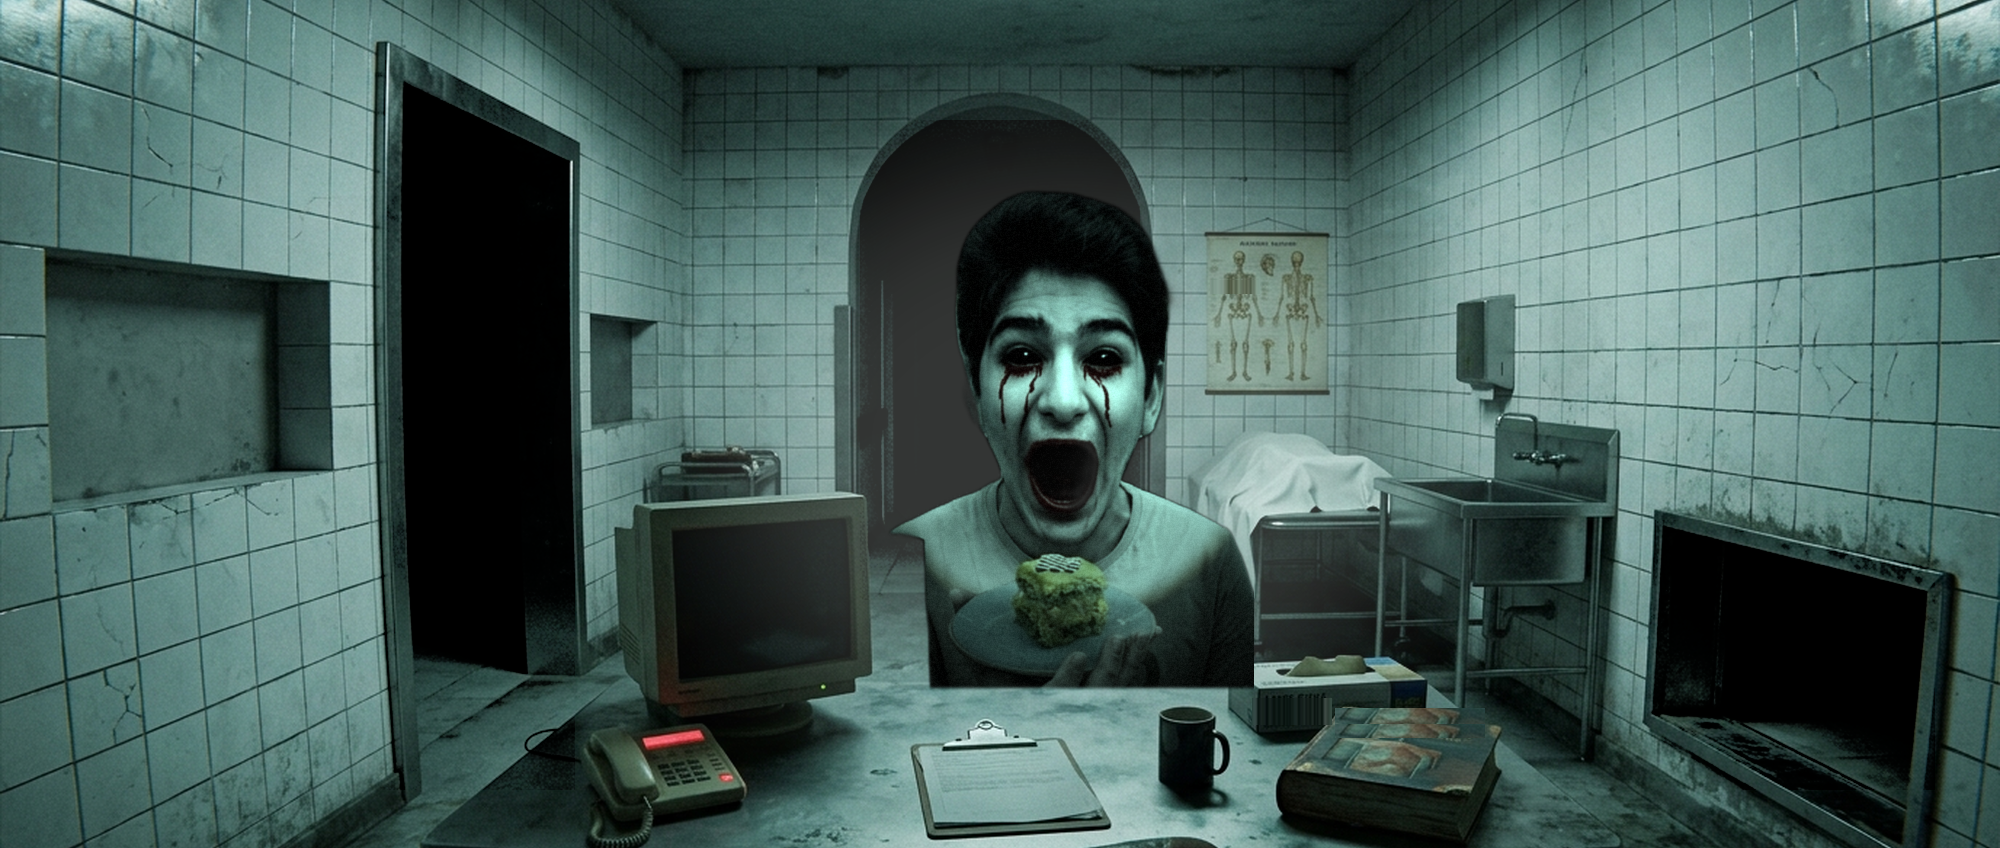
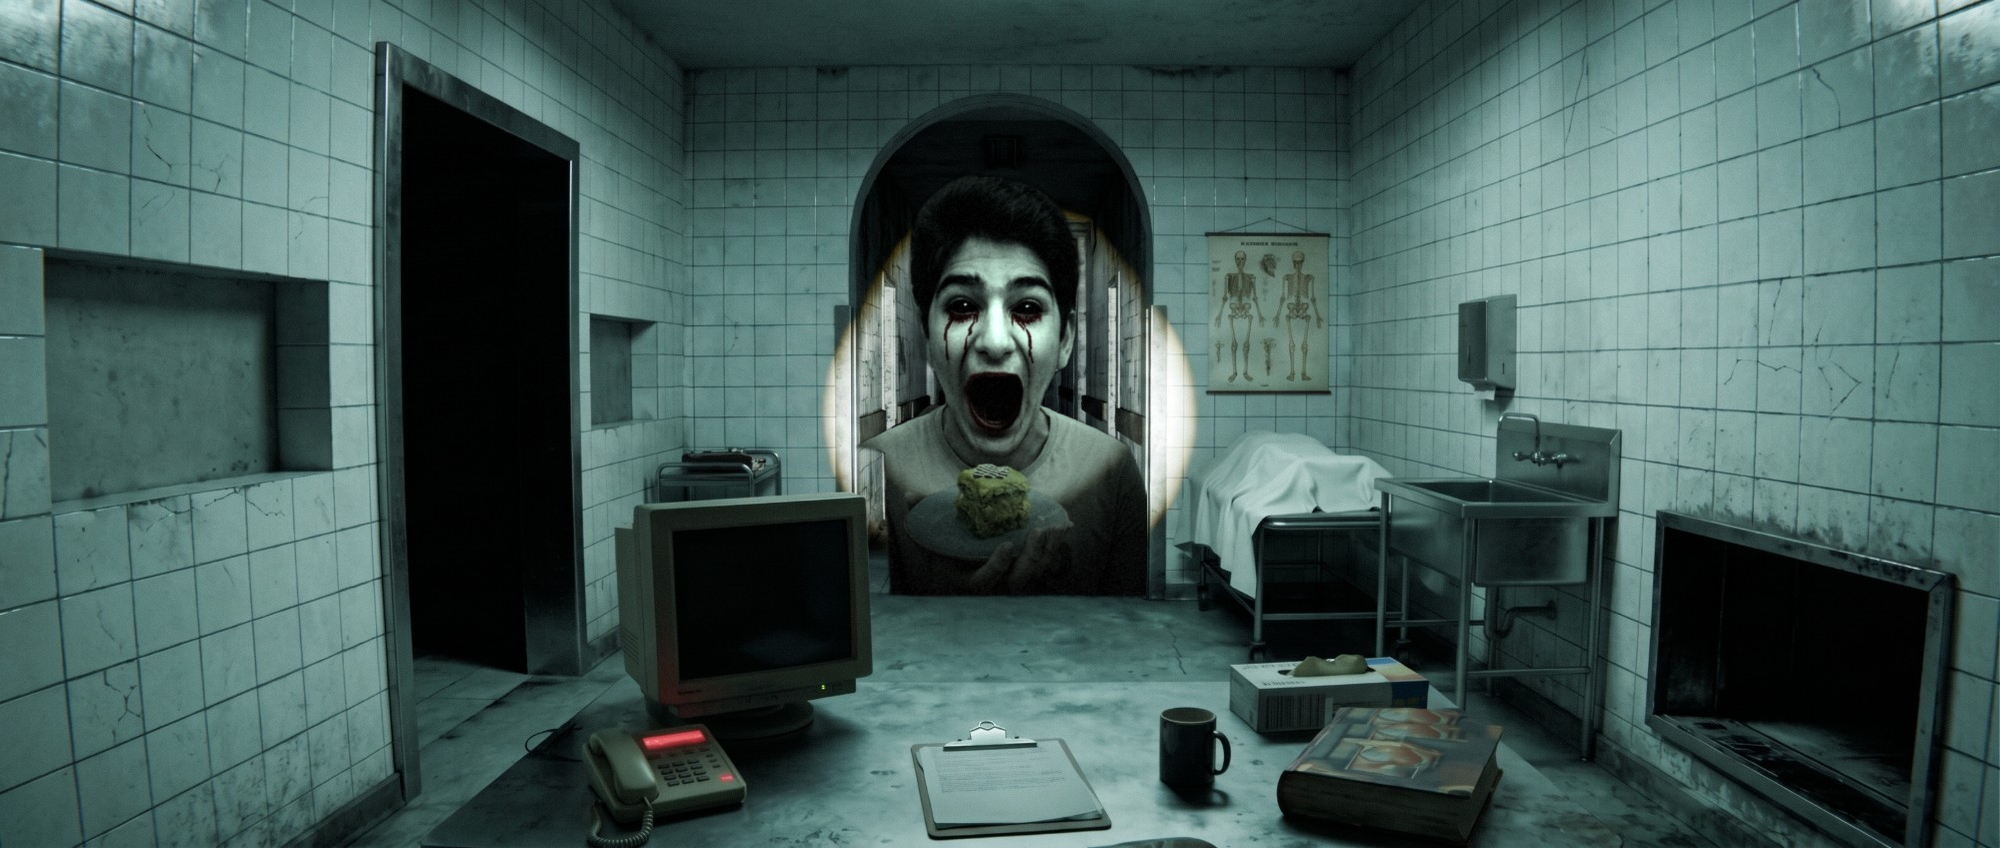
Yeni ana menü (morg etiketleri, kimlik fotoğrafı); örtü yukarıdan iniyor; Pasta 3 koridorun içinde; ışık tutulan yerde hareket olunca ışık bir süre bozuluyor

diff --git a/index.html b/index.html
@@ -169,9 +169,14 @@
   #edgeL,#edgeR{position:absolute; top:0; bottom:0; width:60px; pointer-events:none; opacity:0; transition:opacity .3s}
   #edgeL{left:0; background:linear-gradient(90deg,rgba(255,255,255,.05),transparent)} #edgeR{right:0; background:linear-gradient(-90deg,rgba(255,255,255,.05),transparent)}
   /* örtü: görüş kararır ve bulanıklaşır, kumaşın arkasından loş ışık titrer (görsel yok) */
-  #sheetLayer{position:absolute; inset:0; z-index:30; pointer-events:none; opacity:0; transition:opacity .35s ease, backdrop-filter .35s ease;
+  #sheetLayer{position:absolute; inset:-4% 0 0; z-index:30; pointer-events:none; opacity:0; transform:translateY(-105%) rotate(-1.5deg); transform-origin:50% 0;
+    transition:transform .42s cubic-bezier(.25,1.35,.45,1), opacity .15s linear, backdrop-filter .4s ease;
+    -webkit-mask-image:linear-gradient(to bottom,#000 88%,transparent); mask-image:linear-gradient(to bottom,#000 88%,transparent);
     background:radial-gradient(ellipse at 50% 45%, rgba(18,22,24,.72), rgba(0,0,0,.94) 75%); -webkit-backdrop-filter:blur(0px); backdrop-filter:blur(0px)}
-  #game.sheet #sheetLayer{opacity:1; -webkit-backdrop-filter:blur(14px); backdrop-filter:blur(14px)}
+  #game.sheet #sheetLayer{opacity:1; transform:none; animation:sheetSway 5s ease-in-out .45s infinite; -webkit-backdrop-filter:blur(14px); backdrop-filter:blur(14px)}
+  @keyframes sheetSway{0%,100%{transform:none} 50%{transform:translateY(5px) rotate(.4deg)}}
+  #game.lout #corr, #game.lout .vimg.on{animation:lflk .35s steps(2)}
+  @keyframes lflk{50%{opacity:.15}}
   #sheetLayer .flk1, #sheetLayer .flk2{position:absolute; border-radius:50%; filter:blur(40px)}
   #sheetLayer .flk1{left:52%; top:6%; width:520px; height:300px; background:rgba(190,215,220,.16); animation:sflk 4.3s steps(1) infinite}
   #sheetLayer .flk2{left:8%; top:40%; width:360px; height:240px; background:rgba(160,190,200,.08); animation:sflk 2.9s steps(1) infinite reverse}
@@ -495,6 +500,37 @@
   #map .plan path{fill:none; stroke:#8a8a8a; stroke-width:7; stroke-linejoin:miter}
   #map button, #map .you{width:76px; height:28px; font-size:13px; display:flex; align-items:center; justify-content:center}
   #map .you{background:#d4d0c8; border:1px dashed #000; box-sizing:border-box}
+
+  /* ---------- ana menü v2 ---------- */
+  #title{background:#020405}
+  #title .tbg{position:absolute; inset:-40px; background:url(img/office.png) 40% 50%/cover; filter:blur(5px) brightness(.32) saturate(.6) hue-rotate(10deg); animation:tpan 40s ease-in-out infinite alternate}
+  @keyframes tpan{from{transform:scale(1.08) translateX(-30px)} to{transform:scale(1.15) translateX(30px)}}
+  #title .tflk{position:absolute; inset:0; background:linear-gradient(90deg, rgba(2,4,5,.95) 30%, rgba(2,4,5,.4) 60%, rgba(2,4,5,.85)); animation:tflick 7s steps(1) infinite}
+  @keyframes tflick{0%,93%,100%{opacity:1} 94%{opacity:.82} 95%{opacity:1} 97%{opacity:.7}}
+  #title .kicker{position:absolute; left:84px; top:92px; font-family:'VT323',monospace; font-size:22px; letter-spacing:3px; color:#6f8a86}
+  #title h1{left:80px; top:118px; line-height:1}
+  #title h1 .a{font-family:'Special Elite',monospace; font-size:44px; color:#c9d3cf; letter-spacing:2px}
+  #title h1 .b{font-family:'Creepster',cursive; font-size:176px; color:#a3121c; letter-spacing:10px; text-shadow:0 0 30px rgba(160,10,20,.45), 3px 0 rgba(0,255,220,.12), -3px 0 rgba(255,0,60,.2); animation:flick 4s infinite, mglitch 9s steps(1) infinite}
+  @keyframes mglitch{0%,96%,100%{transform:none; clip-path:none} 97%{transform:translateX(6px); clip-path:inset(20% 0 45% 0)} 98%{transform:translateX(-8px); clip-path:inset(55% 0 10% 0)}}
+  #title .sub{display:none}
+  #title .fade{display:none}
+  #menu{left:84px; top:372px; display:flex; flex-direction:column; gap:8px}
+  #menu button{position:relative; display:flex; align-items:center; gap:14px; width:330px; padding:7px 18px 7px 46px; text-align:left; white-space:nowrap; font-family:'Special Elite',monospace; font-size:23px; letter-spacing:2px;
+    color:#2a2620; background:linear-gradient(#e7dfc6,#d3c9ab); border:0; border-radius:3px 14px 14px 3px; clip-path:polygon(0 0,100% 12%,100% 88%,0 100%);
+    box-shadow:inset 0 0 18px rgba(90,70,30,.35); transform-origin:12px 50%; transition:transform .25s cubic-bezier(.3,1.6,.5,1), filter .2s; filter:brightness(.72) sepia(.2)}
+  #menu button::before{content:''; position:absolute; left:14px; top:50%; width:14px; height:14px; margin-top:-7px; border-radius:50%; background:#0b0d0e; box-shadow:0 0 0 3px #a99e80}
+  #menu button::after{content:''; position:absolute; left:-70px; top:50%; width:70px; height:2px; background:linear-gradient(90deg,transparent,#8f8a7c)}
+  #menu button i{font-style:normal; font-family:'VT323',monospace; font-size:22px; color:#8b1018; min-width:28px}
+  #menu button:hover, #menu button:focus{transform:rotate(-3deg) translateX(10px); filter:none; outline:none; color:#000}
+  #menu button:hover::before{content:''}
+  #menu button[hidden]{display:none}
+  #faceWrap{right:110px; top:90px; width:380px; height:520px; padding:16px 16px 60px; background:#d8d2c0; box-shadow:0 30px 60px rgba(0,0,0,.8); transform:rotate(3deg); animation:none}
+  #faceWrap img{position:absolute; left:16px; top:16px; width:348px; height:444px; object-fit:cover; filter:grayscale(.7) contrast(1.15) brightness(.85)}
+  #faceWrap .face{opacity:1}
+  #faceWrap .cap{position:absolute; left:0; right:0; bottom:16px; text-align:center; font-family:'Special Elite',monospace; font-size:22px; color:#2a2620; letter-spacing:2px}
+  #faceWrap .clip{position:absolute; left:50%; top:-18px; width:70px; height:34px; margin-left:-35px; background:linear-gradient(#9aa0a4,#5d6367); border-radius:4px 4px 10px 10px; box-shadow:0 3px 6px rgba(0,0,0,.6); z-index:2}
+  #title .foot{left:84px; right:auto; bottom:12px; font-family:'VT323',monospace; font-size:22px; color:#4f615e}
+  #title .redact{background:#1b2224; color:#1b2224}
   /* SCARE */
   #scare{background:#000}
   #scareImg{position:absolute; inset:0; width:100%; height:100%; object-fit:cover; animation:lunge .5s cubic-bezier(.15,.9,.3,1) forwards, shake .06s infinite}
@@ -515,18 +551,19 @@
   <section id="splash" class="screen on"><div class="center"><div class="s1">MIRIK'LA 5 GECE: MORG</div><div class="s2" id="splashTxt">YÜKLENİYOR... %0</div><div class="s3">🎧 kulaklıkla, ışıklar kapalı oyna</div></div></section>
 
   <section id="title" class="screen">
-    <div id="faceWrap"><img class="face" src="img/menu_face.png" alt=""><img class="scary" src="img/menu_face_scary.png" alt=""></div>
-    <div class="fade"></div><div class="vignette"></div><div class="scan"></div>
-    <h1><span class="a">MIRIK'LA 5 GECE</span><span class="b">MORG</span></h1>
-    <div class="sub">Tıp fakültesi, morg katı. Beş gece nöbet.<br>5 numaralı çekmeceyi soğuk tut. Seslere güvenme.</div>
+    <div class="tbg"></div><div class="tflk"></div>
+    <div id="faceWrap"><div class="clip"></div><img class="face" src="img/menu_face.png" alt=""><img class="scary" src="img/menu_face_scary.png" alt=""><div class="cap">DENEK 5 · 98/0456</div></div>
+    <div class="vignette"></div><div class="scan"></div>
+    <div class="kicker">PROJE 4-5-6 &nbsp;·&nbsp; ANATOMİ B-1 KATI &nbsp;·&nbsp; GECE NÖBETİ</div>
+    <h1><span class="a">Mırık'la 5 Gece</span><span class="b">MORG</span></h1>
     <div id="menu">
-      <button id="bNew">YENİ OYUN</button>
-      <button id="bCont">DEVAM ET</button>
-      <button id="bSix" hidden>6. GECE</button>
-      <button id="bCustom" hidden>CUSTOM NIGHT</button>
-      <button id="bArchive">ARŞİV</button>
+      <button id="bNew"><i>01</i>YENİ OYUN</button>
+      <button id="bCont"><i>02</i>DEVAM ET</button>
+      <button id="bSix" hidden><i>06</i>6. GECE</button>
+      <button id="bCustom" hidden><i>07</i>CUSTOM NIGHT</button>
+      <button id="bArchive"><i>A</i>ARŞİV</button>
     </div>
-    <div class="foot">v2.0 · Proje 4-5-6</div>
+    <div class="foot">v2.0 &nbsp;·&nbsp; nöbetçi: <span class="redact">███████</span></div>
   </section>
 
   <section id="doc" class="screen"><div id="paperDoc"></div><div class="hint">[ devam etmek için tıkla ]</div></section>
@@ -662,11 +699,11 @@
   <section id="custom" class="screen"><h2 class="pageT">CUSTOM NIGHT</h2><div id="ccards"></div><div id="cpresets"><button data-p="easy">KOLAY 5</button><button data-p="n6">GECE 6</button><button data-p="max">20/20</button></div><button class="back" id="bCusBack">← GERİ</button><button id="cStart">BAŞLAT ▶</button></section>
 </div>
 
-<script src="audio.js?v=20261107u"></script>
-<script src="core.js?v=20261107u"></script>
-<script src="nights.js?v=20261107u"></script>
-<script src="save.js?v=20261107u"></script>
+<script src="audio.js?v=20261107w"></script>
+<script src="core.js?v=20261107w"></script>
+<script src="nights.js?v=20261107w"></script>
+<script src="save.js?v=20261107w"></script>
 <script src="lore.js?v=2"></script>
-<script src="game.js?v=20261107u"></script>
+<script src="game.js?v=20261107w"></script>
 </body>
 </html>

diff --git a/core.js b/core.js
@@ -12,6 +12,7 @@
     POWER_DEV: { doorL: .24, lightL: .15, flash: .18, ventLight: .15, monitor: .09, cooling: .21 },
     POWER_NIGHT_MUL: 0.02,
     POWEROUT_DEATH: [10, 20],
+    LIGHT_OUT: 2.2,        // ışık tutulan yerde hareket olunca o ışık bu kadar saniye yanmaz
   };
 
   const CAMS = ['corr', 'autopsy', 'cold', 'ventA', 'ventB', 'archive', 'lift'];
@@ -36,6 +37,7 @@
       dev: { doorL: false, lightL: false, flash: false, ventLight: false, monitor: false, cooling: false, sheet: false, cam: null, reboot: null, camBlind: false },
       dark: false, darkT: 0,
       pending: { sheet: false, door: false },
+      lightOut: { flash: 0, lightL: 0, ventLight: 0 },
       _ev: null,
     };
     for (const k of Object.keys(INIT)) G[k] = INIT[k](G, opts);
@@ -69,14 +71,21 @@
     const free = !d.sheet;
     d.monitor = free && !!inp.monitor;
     const hands = free && !d.monitor; // monitöre bakarken ışık/fener kullanılamaz
-    d.lightL = hands && !!inp.lightL;
-    d.flash = hands && !!inp.flash;
-    d.ventLight = hands && !!inp.ventLight;
+    const lo = G.lightOut;
+    d.lightL = hands && !!inp.lightL && lo.lightL <= 0;
+    d.flash = hands && !!inp.flash && lo.flash <= 0;
+    d.ventLight = hands && !!inp.ventLight && lo.ventLight <= 0;
     d.cooling = d.monitor && !!inp.cooling;
     d.cam = d.monitor && CAMS.includes(inp.cam) ? inp.cam : null;
     d.reboot = d.monitor && CAMS.includes(inp.reboot) ? inp.reboot : null;
   }
 
+  // FNaF tarzı: ışık tutulan yerde biri hareket ederse o ışık bir süre bozulur
+  function knockOut(G, light) {
+    if (!G.dev[light]) return;
+    G.lightOut[light] = PARAMS.LIGHT_OUT; G.dev[light] = false;
+    emit(G, { type: 'lightout', light });
+  }
   function die(G, who) {
     if (G.over) return;
     G.over = true; G.result = 'death'; G.killer = who;
@@ -89,6 +98,7 @@
   }
 
   function sub(G, dt, inp) {
+    for (const k in G.lightOut) if (G.lightOut[k] > 0) G.lightOut[k] -= dt;
     applyInput(G, inp);
     G.extraDrain = 0;
     for (const f of TICKS) { if (G.over) return; f(G, dt, inp); }
@@ -143,6 +153,7 @@
     if (!roll(G, G.lv.pasta)) return;
     s.stage++;
     if (s.stage === 3) { s.window = PARAMS.PASTA_WINDOW; s.flashT = 0; }
+    knockOut(G, 'flash');
     emit(G, { type: 'move', who: 'pasta', to: PASTA_ROUTE[s.stage], stage: s.stage });
     emit(G, { type: 'sound', id: 'step', from: 'corr' });
   });
@@ -173,7 +184,7 @@
     s.tick = 0;
     if (!roll(G, G.lv.avukat)) return;
     if (s.pos === 'archive') { s.pos = 'lift'; emit(G, { type: 'move', who: 'avukat', to: 'lift' }); }
-    else { s.pos = 'door'; s.at = true; s.t = 0; emit(G, { type: 'move', who: 'avukat', to: 'door' }); emit(G, { type: 'sound', id: 'step', from: 'door' }); }
+    else { s.pos = 'door'; s.at = true; s.t = 0; knockOut(G, 'lightL'); emit(G, { type: 'move', who: 'avukat', to: 'door' }); emit(G, { type: 'sound', id: 'step', from: 'door' }); }
   });
 
   // ---------- Sultan Mırık Han (koridor, motor: her şeyi kapat) ----------
@@ -225,6 +236,7 @@
     if (!roll(G, G.lv.sahil)) return;
     s.stage++;
     if (s.stage === 3) { s.t = PARAMS.SAHIL_ATTACK; s.hide = 0; }
+    knockOut(G, 'ventLight');
     emit(G, { type: 'move', who: 'sahil', to: SAHIL_ROUTE[s.stage], stage: s.stage });
     emit(G, { type: 'sound', id: 'drag', from: 'vent' });
   });
@@ -352,5 +364,5 @@
 
   function shownTemp(G) { return G.muh.cam === 'cold' ? G.muh.frozenTemp : G.denek5.temp; }
 
-  return { PARAMS, CAMS, CHARS, createGame, step, usage, shownTemp, _internal: { INIT, TICKS, roll, emit, die, mul, hack, startFake } };
+  return { PARAMS, CAMS, CHARS, createGame, step, usage, shownTemp, _internal: { INIT, TICKS, roll, emit, die, mul, hack, startFake, knockOut } };
 });

diff --git a/tests/corridor_door.test.js b/tests/corridor_door.test.js
@@ -74,3 +74,21 @@ test('Pasta at level 20 advances and reports moves', () => {
   assert.ok(G.pasta.stage >= 2);
   assert.ok(evs.some(e => e.type === 'move' && e.who === 'pasta'));
 });
+
+test('movement under the flashlight knocks it out for a while (FNaF style)', () => {
+  const G = game(1, { pasta: 20 });
+  run(G, Core.PARAMS.PASTA_TICK + 0.2, { flash: true });           // Pasta ışık altında ilerler
+  assert.ok(G.lightOut.flash > 0, 'flash should be out');
+  run(G, 0.2, { flash: true });
+  assert.strictEqual(G.dev.flash, false);
+  run(G, Core.PARAMS.LIGHT_OUT + 0.1, {});
+  run(G, 0.1, { flash: true });
+  assert.strictEqual(G.dev.flash, true);
+});
+
+test('Avukat arriving under the door light knocks the door light out', () => {
+  const G = game(1, { avukat: 20 }); G.avukat.pos = 'lift';
+  run(G, Core.PARAMS.AVUKAT_TICK + 0.2, { lightL: true });
+  assert.ok(G.lightOut.lightL > 0);
+  assert.strictEqual(G.dev.lightL, false);
+});

diff --git a/game.js b/game.js
@@ -44,7 +44,7 @@ let P = Save.load();
 function persist(r) { P = Save.unlock(P, r); Save.save(P); refreshMenu(); }
 function refreshMenu() {
   const n = P.night || 1;
-  $('bCont').textContent = `DEVAM ET — ${n}. GECE`;
+  $('bCont').innerHTML = `<i>0${n}</i>DEVAM · ${n}. GECE`;
   $('bCont').hidden = n < 2;
   $('bSix').hidden = P.maxNight < 6;
   $('bCustom').hidden = P.maxNight < 7;
@@ -164,6 +164,7 @@ function handle(e) {
       $('game').classList.toggle('sultanA', e.phase === 'approach');
       $('game').classList.toggle('sultanH', e.phase === 'here');
       return;
+    case 'lightout': snd('flicker'); snd('light', false); $('game').classList.add('lout'); setTimeout(() => $('game').classList.remove('lout'), 350); return;
     case 'powerout': return powerOut();
     case 'itsme': return itsMe(e.variant);
     case 'death': return die(e.who);

diff --git a/tools/variants.py b/tools/variants.py
@@ -25,7 +25,7 @@ THRESH = 34      # renk farkı eşiği (0-255)
 # Ofiste sonradan eklenen sabit parçalar: versiyonlar bunları asla örtmez (ofisin kendi hali görünür).
 # Koridordaki karakterler kemerin dışına taşmasın: maske kemer şekliyle kırpılır (Sultan'ın far ışığı hariç).
 ARCH = (852, 104, 1148, 578)   # x0, y0, x1, y1 (üstü yarım daire)
-ARCH_CLIP = ('corr_pasta1', 'corr_pasta2', 'corr_itsme', 'corr_lit')   # Pasta 3 odaya çıkıyor, kırpılmaz
+ARCH_CLIP = ('corr_pasta', 'corr_itsme', 'corr_lit')
 KEEP = [
     (40, 205, 342, 506),     # duvardaki MIRIKVISION ekranı
     (582, 286, 672, 452),    # kapı paneli (girintide)
